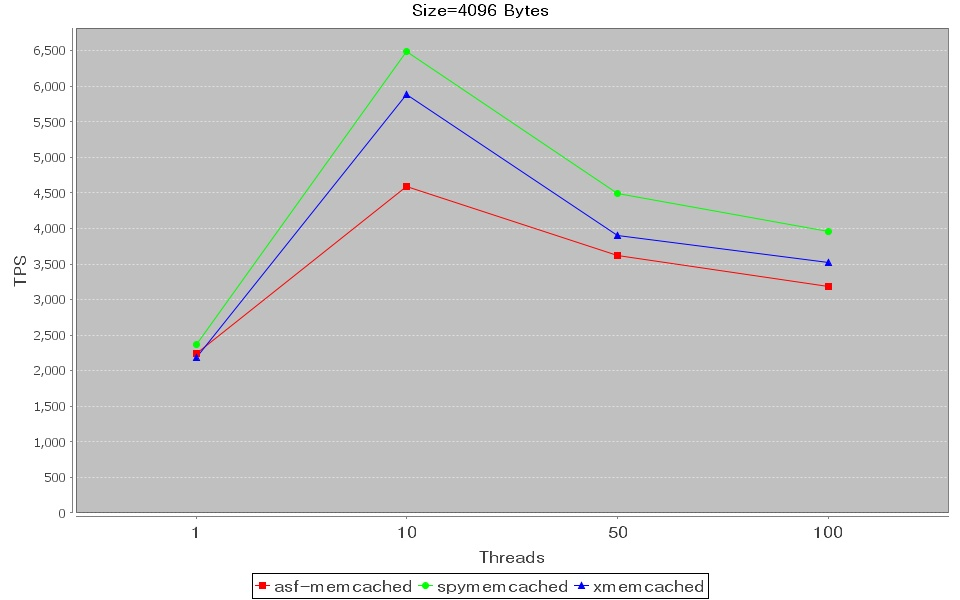
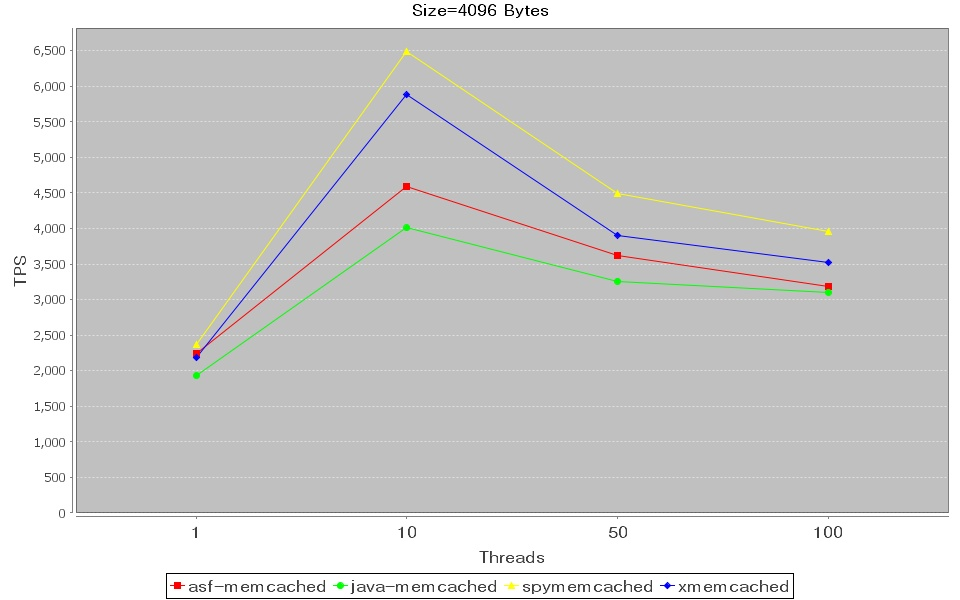
add Java-MemCached benchmark result

diff --git a/trunk/benchmark/benchmark.html b/trunk/benchmark/benchmark.html
@@ -93,7 +93,7 @@ I can't test more threads,because of memcached's evictions cut down the hit rate
 <h2>Test Result</h2>
 
 <h3>Client and Server on Different Machines</h3>
-<p><h4>Part1 Compare by threads number</h4> 
+<p><h3>Part1 Compare by threads number</h3> 
 <img src="result/images/bytes64.jpg" /> <br>
 <br><br>
 <br>
@@ -115,7 +115,8 @@ I can't test more threads,because of memcached's evictions cut down the hit rate
 <img src="result/images/bytes8192.jpg" /> <br>
 <br><br>
 <br>
-<p><h4>Part2 Compare by value size</h4> 
+<br>
+<p><h3>Part2 Compare by value size</h3> 
 <img src="result/images/threads1.jpg" /> <br>
 <br><br>
 <br>
